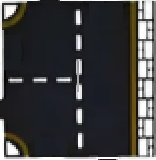
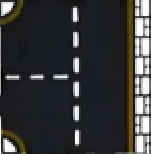
Se agrega la imagen de pista grande, se agrerga la nueva pieza al catalogo y se mejoran todas las imagenes

diff --git a/main.py b/main.py
@@ -138,7 +138,7 @@ class MainWindow(QMainWindow):
             {"label": "Curva", "icon": "assets/curve.png", "class": CurvePiece},
             {"label": "Cruce", "icon": "assets/cross.png", "class": CrossPiece},
             {"label": "Cruce en T", "icon": "assets/t_road.png", "class": TRoadPiece},
-            #{"label": "Recta Larga", "icon": "assets/long_straight_road.png", "class": LongStraightPiece},
+            {"label": "Recta Larga", "icon": "assets/long_straight_road.png", "class": LongStraightPiece},
         ]
 
         for item in catalog_items:
